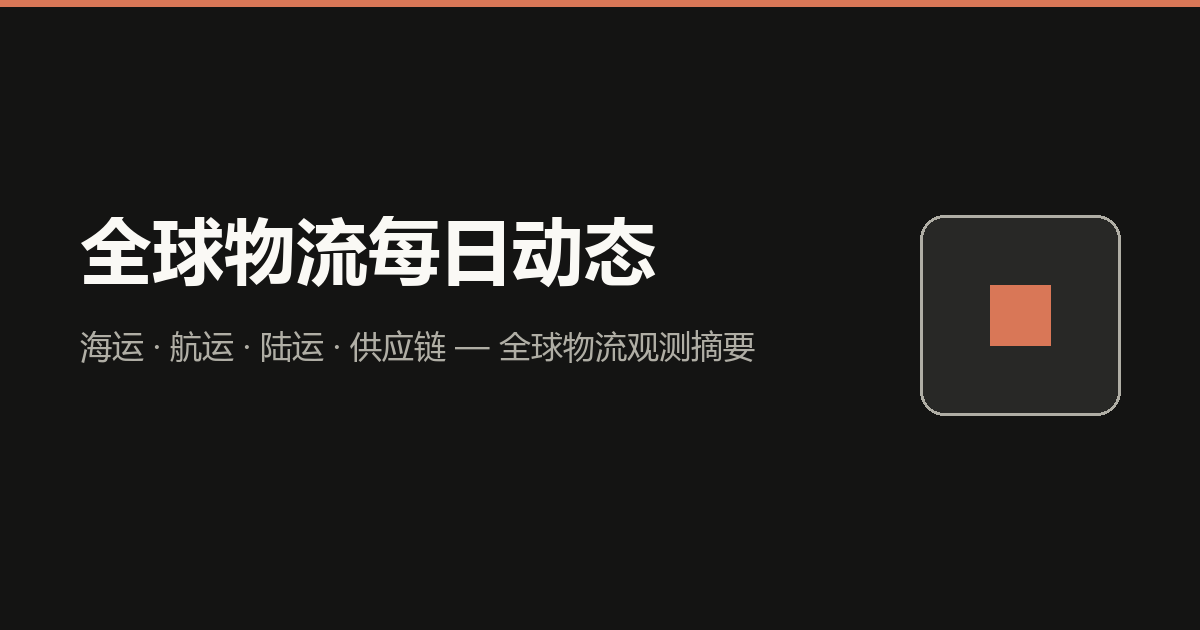
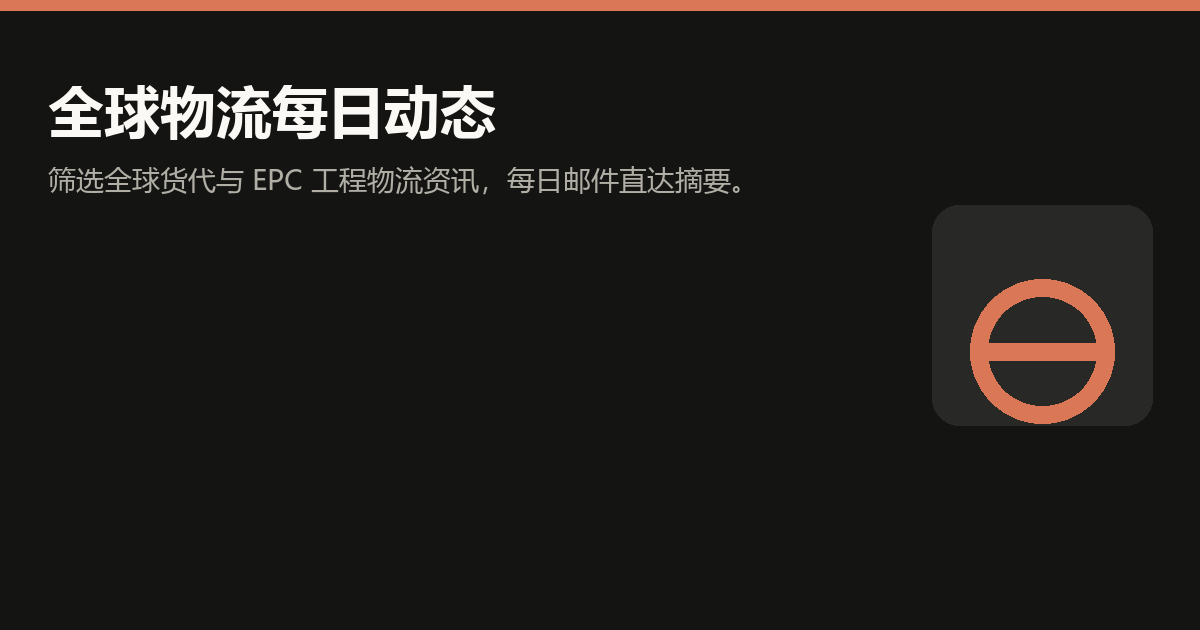
fix og-cover CJK font rendering for WeChat

diff --git a/scripts/make_og_image.py b/scripts/make_og_image.py
@@ -2,12 +2,14 @@
 
 from __future__ import annotations
 
+import sys
 from pathlib import Path
 
 from PIL import Image, ImageDraw, ImageFont
 
 ROOT = Path(__file__).resolve().parent.parent
 ASSETS = ROOT / "docs" / "assets"
+FONT_DIR = ROOT / "assets" / "fonts"
 PNG_OUT = ASSETS / "og-cover.png"
 JPG_OUT = ASSETS / "og-cover.jpg"
 
@@ -17,62 +19,112 @@ MUTED = (176, 174, 165)
 ACCENT = (217, 119, 87)
 ICON_BG = (40, 40, 38)
 
-
-def _font(size: int, bold: bool = False) -> ImageFont.FreeTypeFont | ImageFont.ImageFont:
-    candidates = [
-        "C:/Windows/Fonts/msyhbd.ttc" if bold else "C:/Windows/Fonts/msyh.ttc",
+FONT_CANDIDATES = {
+    False: [
+        FONT_DIR / "NotoSansSC-Regular.otf",
+        "C:/Windows/Fonts/msyh.ttc",
         "C:/Windows/Fonts/simhei.ttf",
-        "/usr/share/fonts/truetype/noto/NotoSansCJK-Bold.ttc" if bold else "/usr/share/fonts/truetype/noto/NotoSansCJK-Regular.ttc",
+        "/usr/share/fonts/opentype/noto/NotoSansCJK-Regular.ttc",
+        "/usr/share/fonts/truetype/noto/NotoSansCJK-Regular.ttc",
+        "/usr/share/fonts/opentype/noto/NotoSerifCJK-Regular.ttc",
         "/System/Library/Fonts/PingFang.ttc",
-        "arial.ttf",
-    ]
-    for path in candidates:
+    ],
+    True: [
+        FONT_DIR / "NotoSansSC-Bold.otf",
+        "C:/Windows/Fonts/msyhbd.ttc",
+        "C:/Windows/Fonts/simhei.ttf",
+        "/usr/share/fonts/opentype/noto/NotoSansCJK-Bold.ttc",
+        "/usr/share/fonts/truetype/noto/NotoSansCJK-Bold.ttc",
+        "/usr/share/fonts/opentype/noto/NotoSerifCJK-Bold.ttc",
+        "/System/Library/Fonts/PingFang.ttc",
+    ],
+}
+
+
+def _font(size: int, bold: bool = False) -> ImageFont.FreeTypeFont:
+    for path in FONT_CANDIDATES[bold]:
+        p = Path(path) if not isinstance(path, Path) else path
+        if not p.exists() and not isinstance(path, str):
+            continue
         try:
-            return ImageFont.truetype(path, size)
+            return ImageFont.truetype(str(p), size)
         except OSError:
             continue
-    return ImageFont.load_default()
+    raise RuntimeError(
+        "未找到中文字体。本地请安装微软雅黑；CI 请安装 fonts-noto-cjk。"
+    )
 
 
 def _draw_icon(draw: ImageDraw.ImageDraw, box: tuple[int, int, int, int]) -> None:
     x0, y0, x1, y1 = box
-    draw.rounded_rectangle(box, radius=24, fill=ICON_BG)
+    draw.rounded_rectangle(box, radius=max(8, (x1 - x0) // 8), fill=ICON_BG)
     cx = (x0 + x1) // 2
     cy = (y0 + y1) // 2
     r = (x1 - x0) // 6
-    draw.ellipse([cx - r * 2, cy - r, cx + r * 2, cy + r * 3], outline=ACCENT, width=max(3, r // 2))
-    draw.line([cx - r * 2, cy + r, cx + r * 2, cy + r], fill=ACCENT, width=max(3, r // 2))
+    draw.ellipse(
+        [cx - r * 2, cy - r, cx + r * 2, cy + r * 3],
+        outline=ACCENT,
+        width=max(2, r // 2),
+    )
+    draw.line([cx - r * 2, cy + r, cx + r * 2, cy + r], fill=ACCENT, width=max(2, r // 2))
 
 
-def render_banner(w: int, h: int) -> Image.Image:
+def render_banner() -> Image.Image:
+    w, h = 1200, 630
     img = Image.new("RGB", (w, h), BG)
     draw = ImageDraw.Draw(img)
     draw.rectangle([0, 0, w, 10], fill=ACCENT)
 
-    title = "全球物流每日动态"
-    subtitle = "海运 · 空运 · 陆运 · 供应链 — 全球物流观测摘要"
+    title_font = _font(56, bold=True)
+    sub_font = _font(28)
 
-    title_font = _font(max(28, w // 22), bold=True)
-    sub_font = _font(max(16, w // 38))
+    draw.text((48, 72), "全球物流每日动态", font=title_font, fill=TEXT)
+    draw.text(
+        (48, 160),
+        "筛选全球货代与 EPC 工程物流资讯，每日邮件直达摘要。",
+        font=sub_font,
+        fill=MUTED,
+    )
 
-    draw.text((48, 56), title, font=title_font, fill=TEXT)
-    draw.text((48, 56 + int(h * 0.18)), subtitle, font=sub_font, fill=MUTED)
+    icon_size = 220
+    _draw_icon(draw, (w - 48 - icon_size, (h - icon_size) // 2, w - 48, (h + icon_size) // 2))
+    return img
 
-    icon_size = int(min(h * 0.55, w * 0.22))
-    x1 = w - 48
-    y0 = (h - icon_size) // 2
-    _draw_icon(draw, (x1 - icon_size, y0, x1, y0 + icon_size))
+
+def render_square() -> Image.Image:
+    """微信卡片右侧小图：300×300，精简文案避免溢出。"""
+    w, h = 300, 300
+    img = Image.new("RGB", (w, h), BG)
+    draw = ImageDraw.Draw(img)
+    draw.rectangle([0, 0, w, 6], fill=ACCENT)
+
+    title_font = _font(26, bold=True)
+    sub_font = _font(14)
+
+    draw.text((16, 24), "全球物流", font=title_font, fill=TEXT)
+    draw.text((16, 58), "每日动态", font=title_font, fill=TEXT)
+    draw.text((16, 96), "Global Logistics", font=sub_font, fill=ACCENT)
+
+    icon_size = 88
+    _draw_icon(draw, (w - 16 - icon_size, h - 16 - icon_size, w - 16, h - 16))
     return img
 
 
 def main() -> None:
     ASSETS.mkdir(parents=True, exist_ok=True)
 
-    banner = render_banner(1200, 630)
+    banner = render_banner()
     banner.save(PNG_OUT, format="PNG", optimize=True)
 
-    square = render_banner(300, 300)
-    square.save(JPG_OUT, format="JPEG", quality=88, optimize=True)
+    square = render_square()
+    square.save(JPG_OUT, format="JPEG", quality=90, optimize=True)
+
+    # 简单校验：若标题 bbox 过窄，说明字体可能异常
+    probe = ImageDraw.Draw(square)
+    bbox = probe.textbbox((0, 0), "全球物流", font=_font(26, bold=True))
+    if bbox[2] - bbox[0] < 40:
+        print("警告：中文字体渲染宽度异常", file=sys.stderr)
+        sys.exit(1)
 
     print(PNG_OUT)
     print(JPG_OUT)